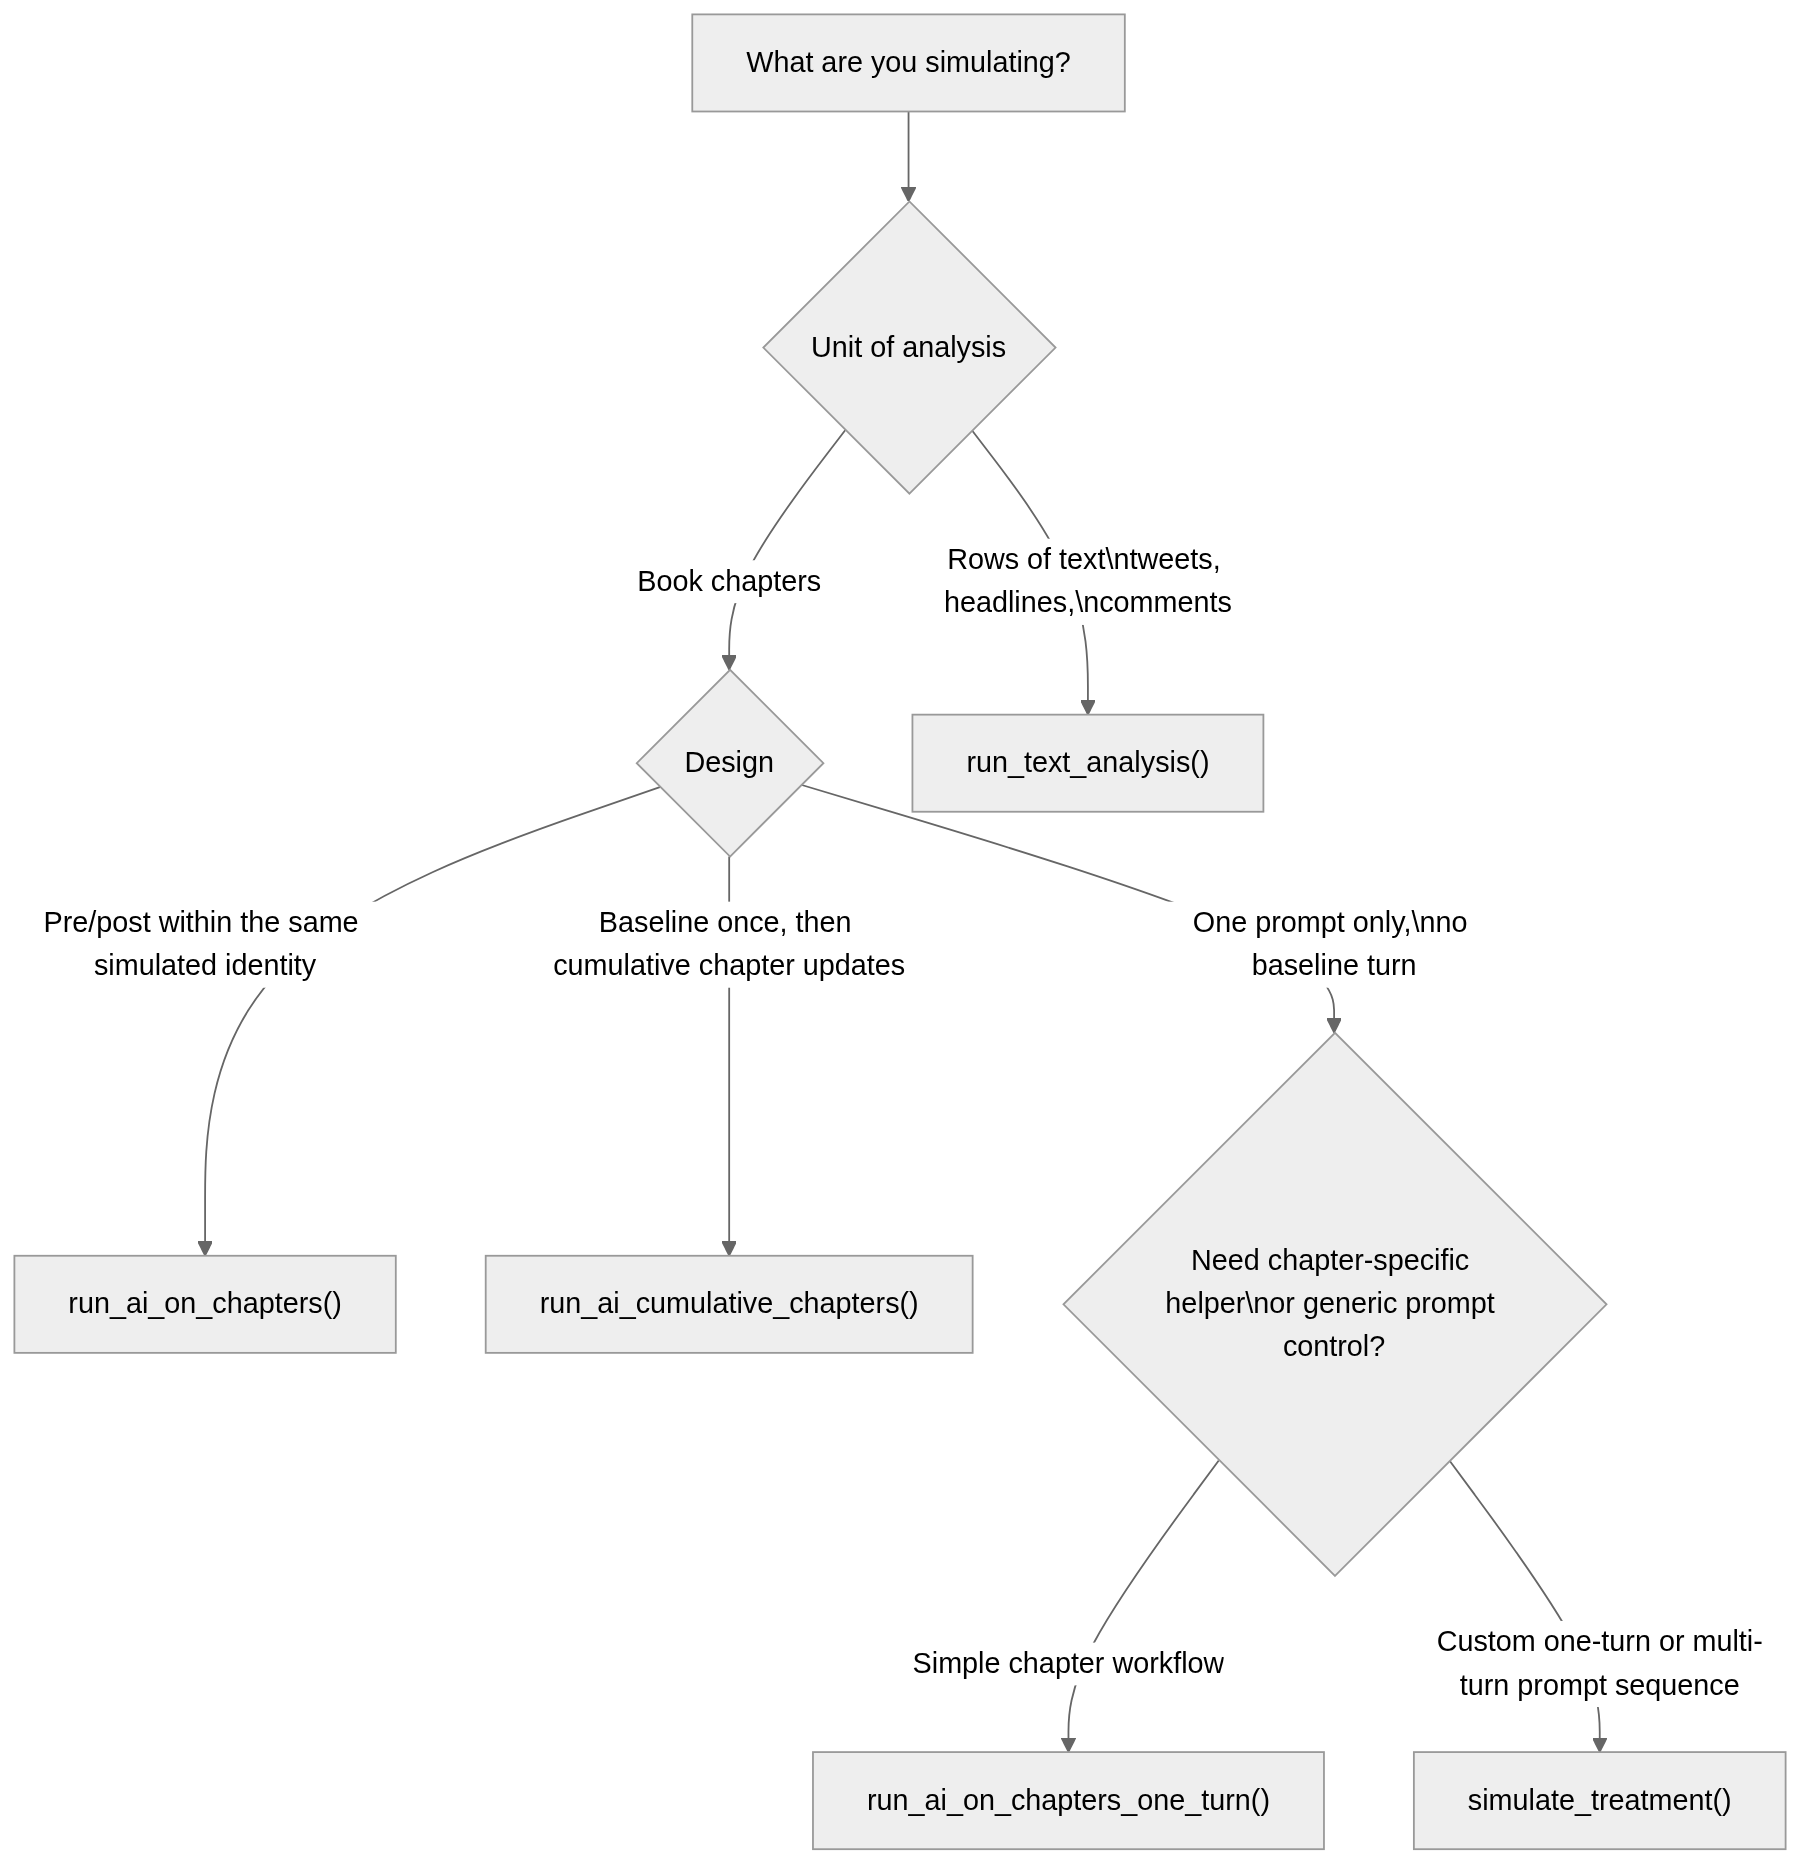
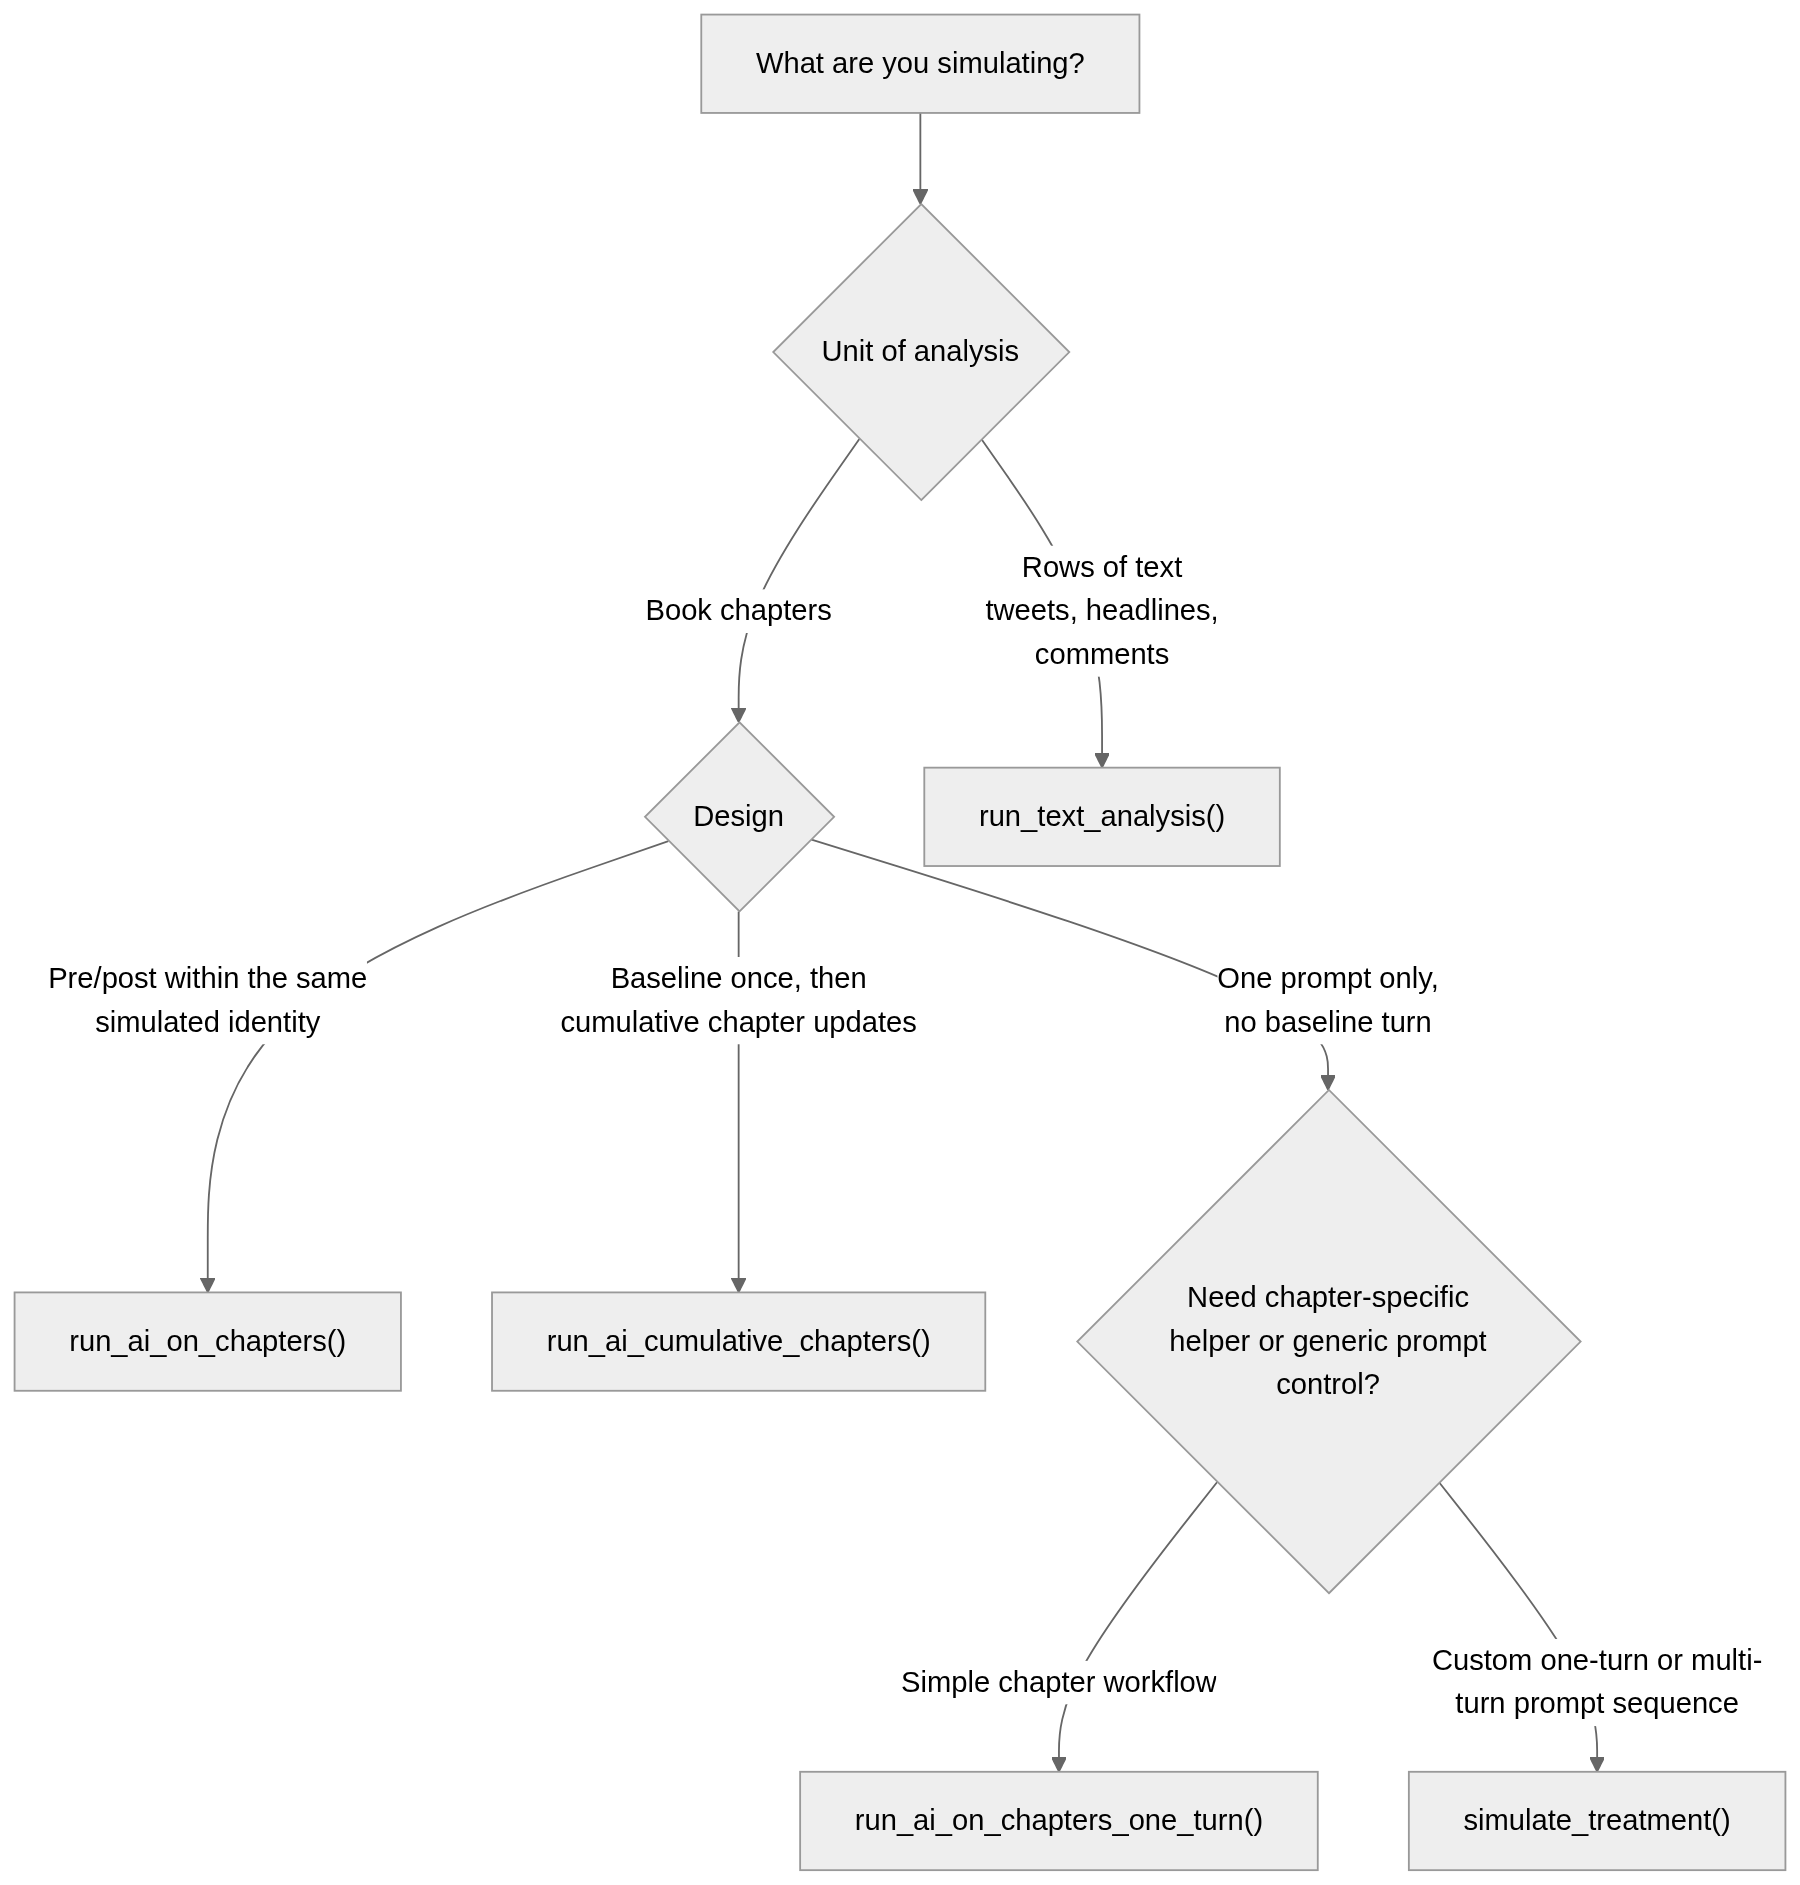
figure

diff --git a/README.md b/README.md
@@ -196,7 +196,7 @@ library(nalanda)
 
 # Get a random fact about Nalanda University
 nalanda()
-#> [1] "Xuanzang, the 7th-century Chinese monk and scholar, studied at Nalanda for several years and documented its curriculum."
+#> [1] "Excavations at Nalanda reveal an extensive campus with monasteries, temples, and lecture halls."
 ```
 
 Learn more about related research on books, learning, and prosociality:
